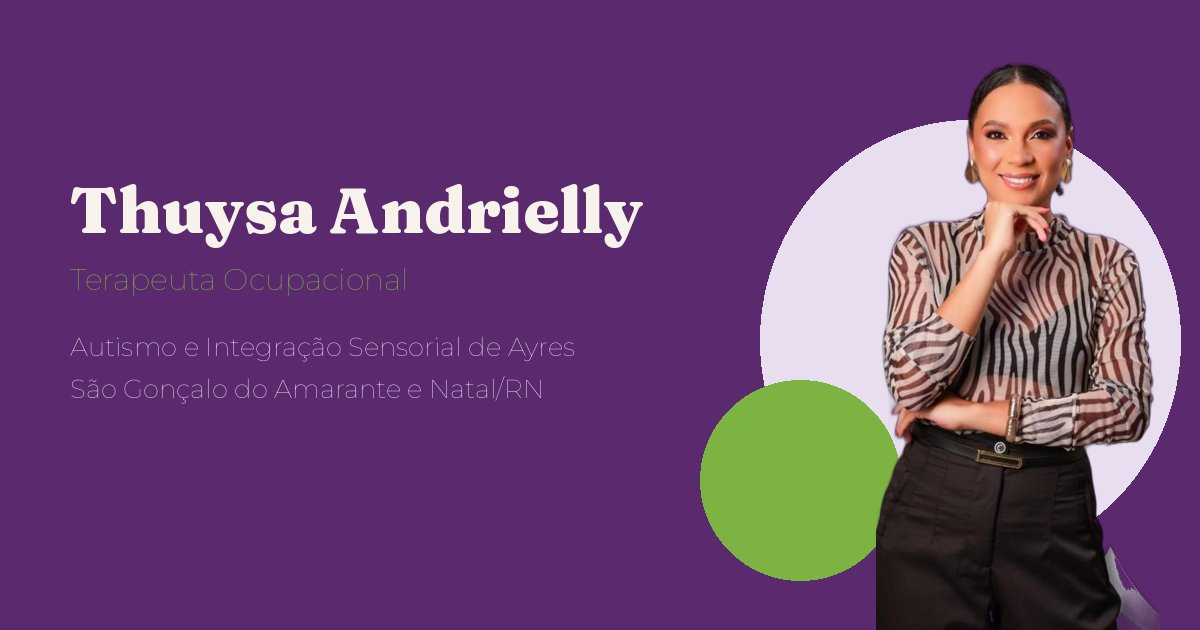
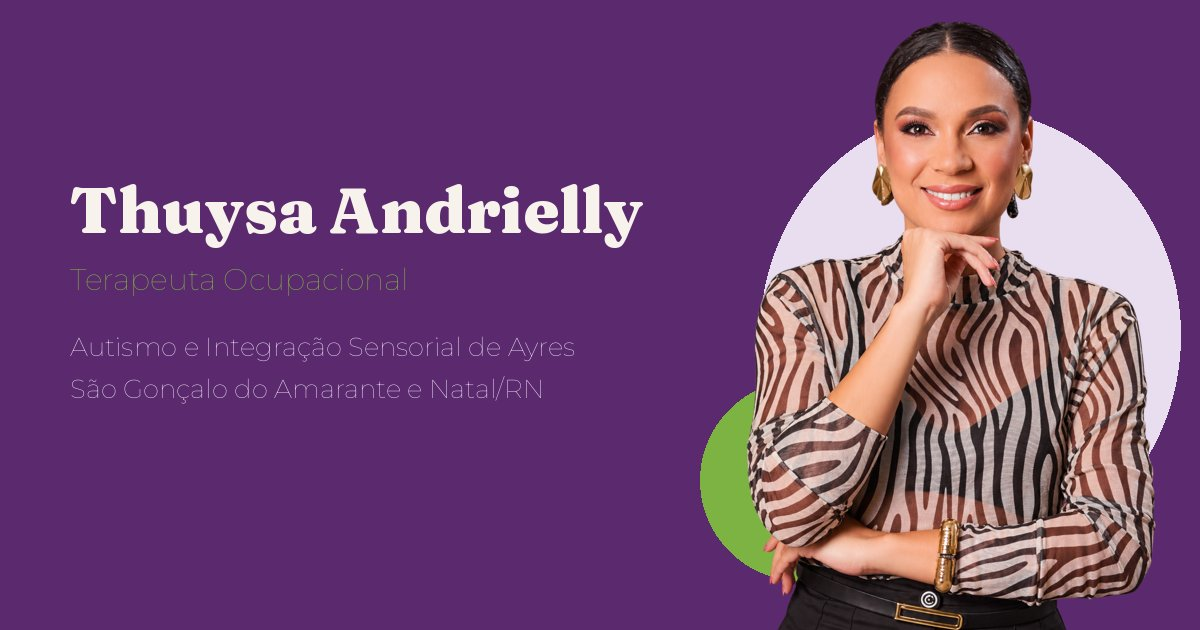
Troca as fotos da Thuysa pelas versões profissionais sem fundo
Claude-Session: https://claude.ai/code/session_01BuBshu6n98WpJU2CtyB5mf

Changed region(s): [[0.6167, 0.0302, 0.9867, 1.0], [0.6475, 0.3016, 0.6783, 0.3921], [0.925, 0.2714, 0.9558, 0.3317]]

diff --git a/index.html b/index.html
@@ -180,7 +180,7 @@ main{position:relative}
 .hero .lead{font-size:clamp(17px,1.5vw,20px);max-width:34em;margin:22px 0 30px;color:var(--tinta-2)}
 .hero .lead strong{color:var(--tinta)}
 .ctas{display:flex;flex-wrap:wrap;gap:14px}
-.hero .foto{position:relative;justify-self:end;width:min(460px,100%);aspect-ratio:480/1015;max-height:calc(100svh - var(--nav-h) - 60px)}
+.hero .foto{position:relative;justify-self:end;width:min(460px,100%);aspect-ratio:760/1621;max-height:calc(100svh - var(--nav-h) - 60px)}
 .hero canvas{filter:blur(5px);position:absolute;inset:-12% -40% -6% -30%;width:170%;height:118%;z-index:0}
 .hero .foto img{position:relative;z-index:1;width:100%;height:100%;object-fit:contain;object-position:bottom;-webkit-mask-image:linear-gradient(#000 82%,transparent);mask-image:linear-gradient(#000 82%,transparent)}
 .selo{position:absolute;z-index:2;background:var(--papel);border-radius:18px;padding:12px 16px;font:700 13px/1.35 var(--sans);color:var(--roxo);box-shadow:0 14px 34px -14px rgba(69,32,79,.45);max-width:220px}
@@ -263,6 +263,7 @@ main{position:relative}
 .sobre .foto{position:sticky;top:calc(var(--nav-h) + 30px);background:var(--lilas);border-radius:220px 220px 28px 28px;overflow:hidden;aspect-ratio:4/5}
 .sobre .foto img{position:absolute;bottom:0;left:50%;transform:translateX(-50%);width:86%;height:auto;max-height:100%;object-fit:contain;object-position:bottom}
 .sobre .foto .reveal{position:absolute;inset:0}
+.sobre .foto img{-webkit-mask-image:linear-gradient(#000 88%,transparent);mask-image:linear-gradient(#000 88%,transparent)}
 .sobre .foto .reveal img{transform:translateX(-50%) scale(1.08)}
 .sobre .foto .reveal.on img{transform:translateX(-50%)}
 .sobre h2{font-size:clamp(40px,5.4vw,72px);color:var(--roxo);margin-bottom:28px}
@@ -436,7 +437,7 @@ footer .base{grid-column:1/-1;border-top:1px solid rgba(233,221,240,.15);padding
       </div>
       <div class="foto">
         <canvas id="gotas" aria-hidden="true"></canvas>
-        <img src="img/thuysa-hero.webp" width="480" height="1015" alt="Thuysa Andrielly, terapeuta ocupacional, sorrindo com a mão no queixo" fetchpriority="high" decoding="async">
+        <img src="img/thuysa-hero.webp" width="760" height="1621" alt="Thuysa Andrielly, terapeuta ocupacional, sorrindo com a mão no queixo" fetchpriority="high" decoding="async">
         <div class="selo s1">Certificação internacional em Integração Sensorial de Ayres</div>
         <div class="selo s2">CREFITO 22704-TO</div>
       </div>
@@ -498,7 +499,7 @@ footer .base{grid-column:1/-1;border-top:1px solid rgba(233,221,240,.15);padding
 
   <section class="sobre" id="sobre" aria-labelledby="t-sobre">
     <div class="wrap">
-      <div class="foto"><div class="reveal"><img src="img/thuysa-sobre.webp" width="490" height="1128" loading="lazy" decoding="async" alt="Thuysa Andrielly de blazer branco, com as mãos unidas, olhando para a câmera"></div></div>
+      <div class="foto"><div class="reveal"><img src="img/thuysa-sobre.webp" width="820" height="1487" loading="lazy" decoding="async" alt="Thuysa Andrielly de blazer branco e blusa verde, com as mãos unidas, olhando para a câmera"></div></div>
       <div class="texto">
         <h2 class="fade">Prazer, eu sou a <em>Thuysa</em></h2>
         <p class="fade">Sou terapeuta ocupacional e escolhi trabalhar com crianças com autismo e dificuldades sensoriais porque acredito que cada pequena conquista muda a rotina de uma família inteira.</p>
